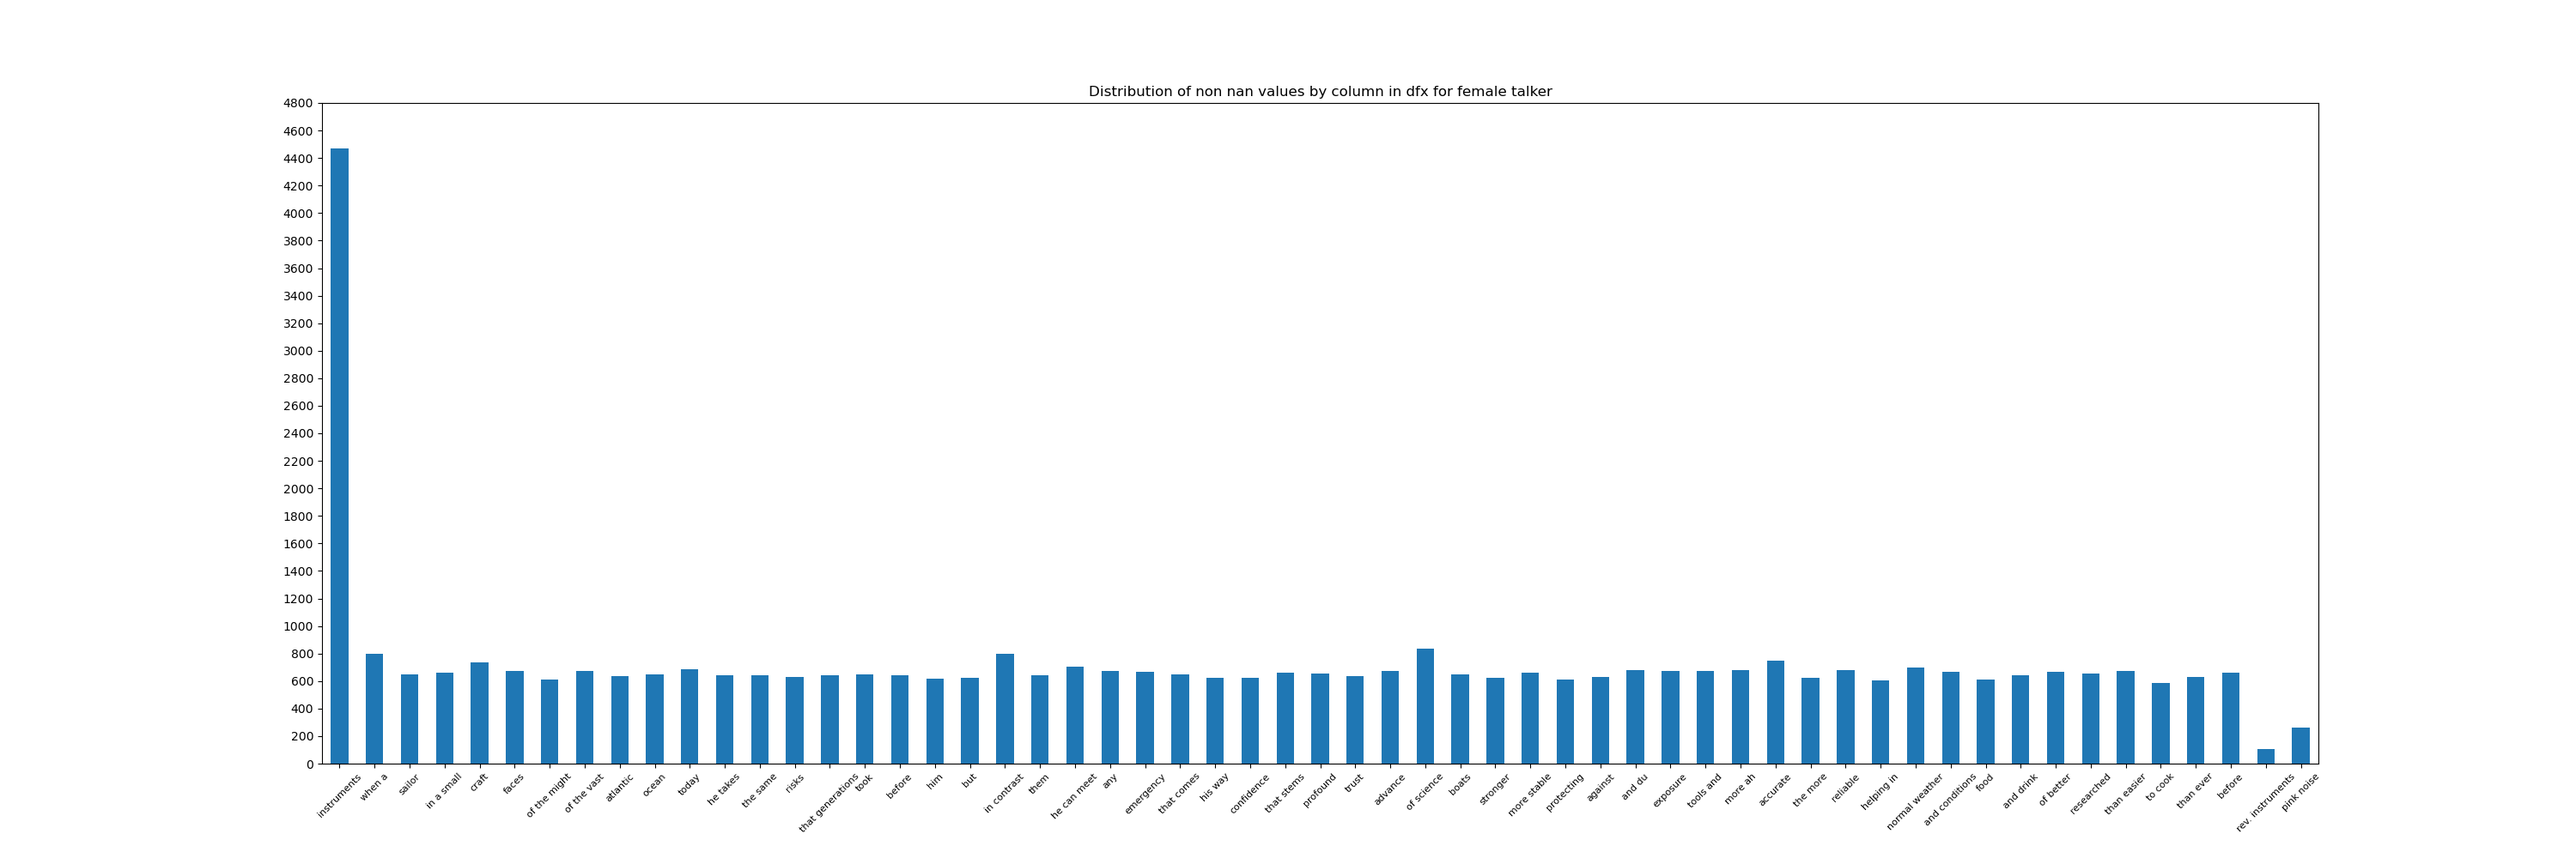
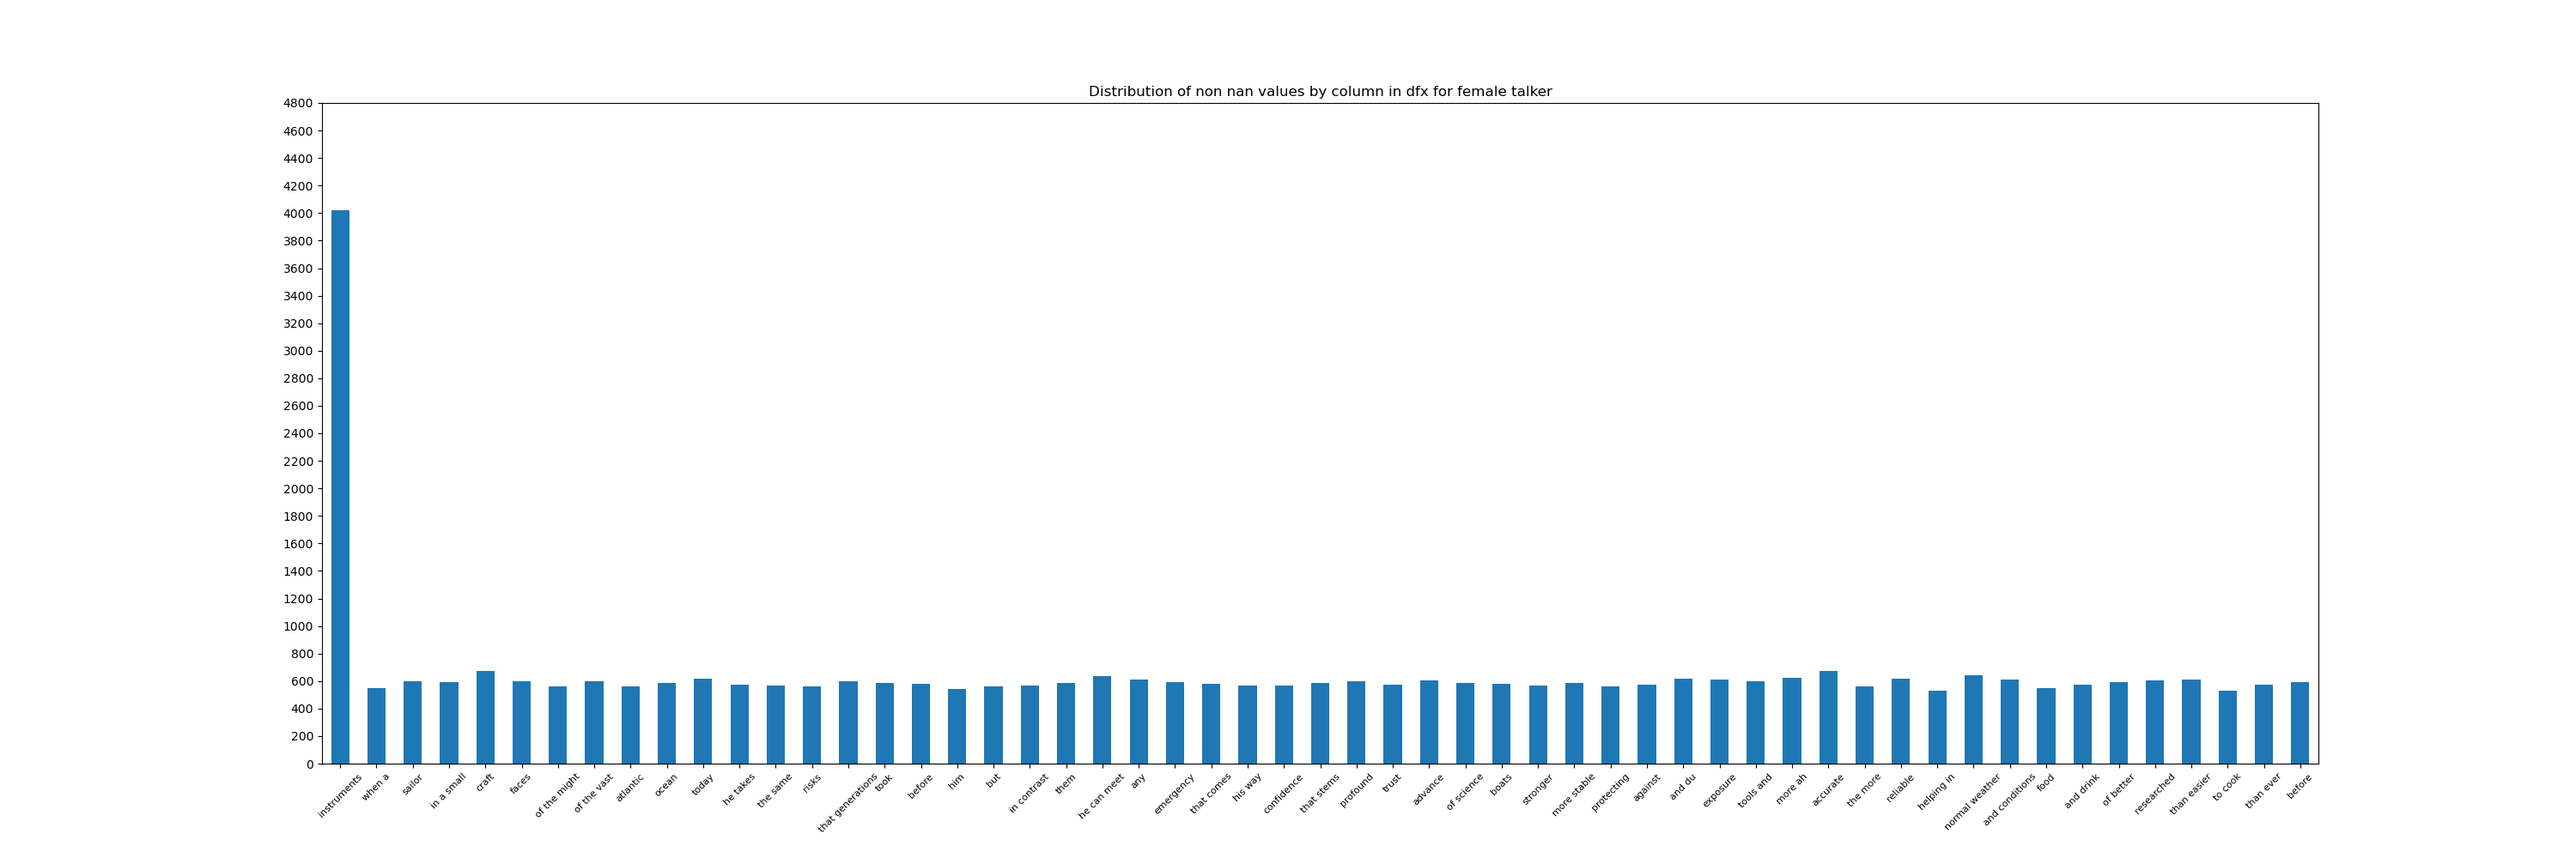
changing to 0.6*median_count

Changed region(s): [[0.124, 0.744, 0.899, 0.961], [0.124, 0.186, 0.155, 0.248]]

diff --git a/models/reactiontimeforFAandtargmodel.py b/models/reactiontimeforFAandtargmodel.py
@@ -706,11 +706,11 @@ def extract_releasedata_withdist(ferrets, talker=1):
         #get the length of the nan entries
         len_nan = len(df_dist_nan)
         #if the length of the nan entries is greater than 0.5 of the length of the non-nan entries
-        if len_nonan > median_count*1.1 and col !='dist1':
+        if len_nonan > median_count*1.05 and col !='dist1':
             print('high frequency distractor')
             print(col)
             #subsample the nan entries to be the same length as the non-nan entries
-            df_dist_nonan = df_dist_nonan.sample(n=int(0.9*median_count), random_state=123)
+            df_dist_nonan = df_dist_nonan.sample(n=int(0.6*median_count), random_state=123)
             #recombine the two dfs
             df_dist = pd.concat([df_dist_nonan, df_dist_nan], axis=0)
             #sort the index
